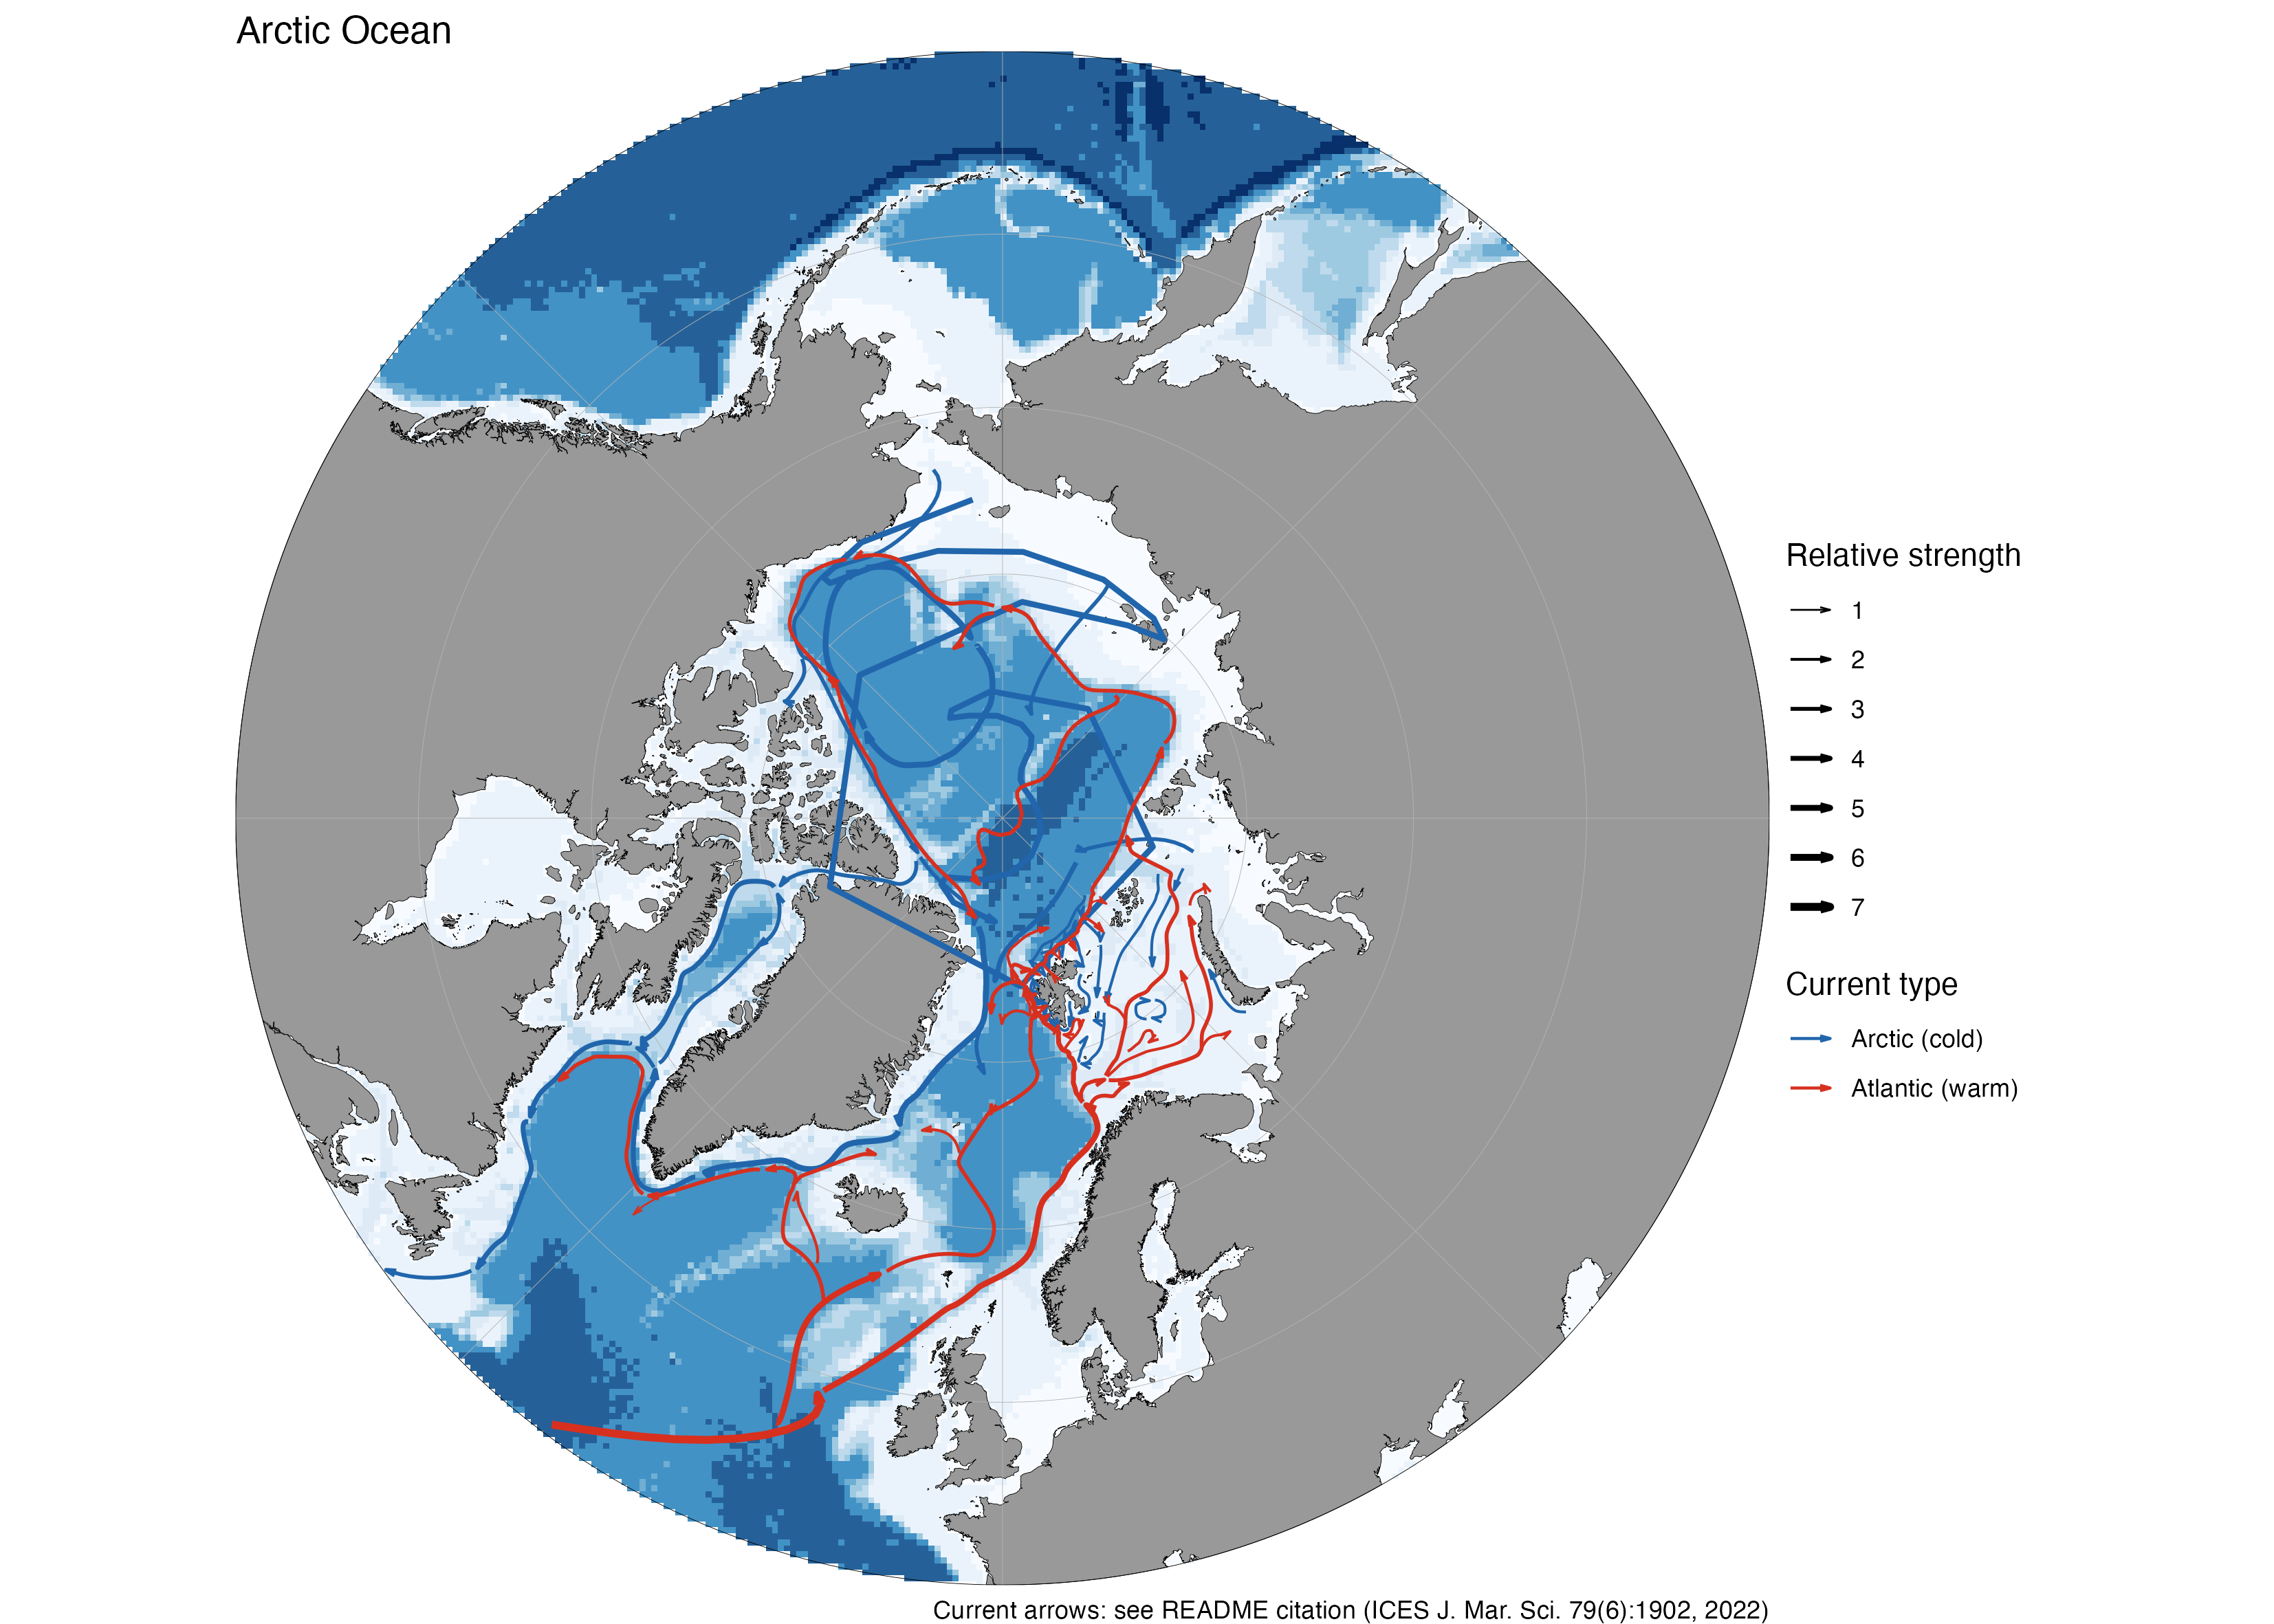
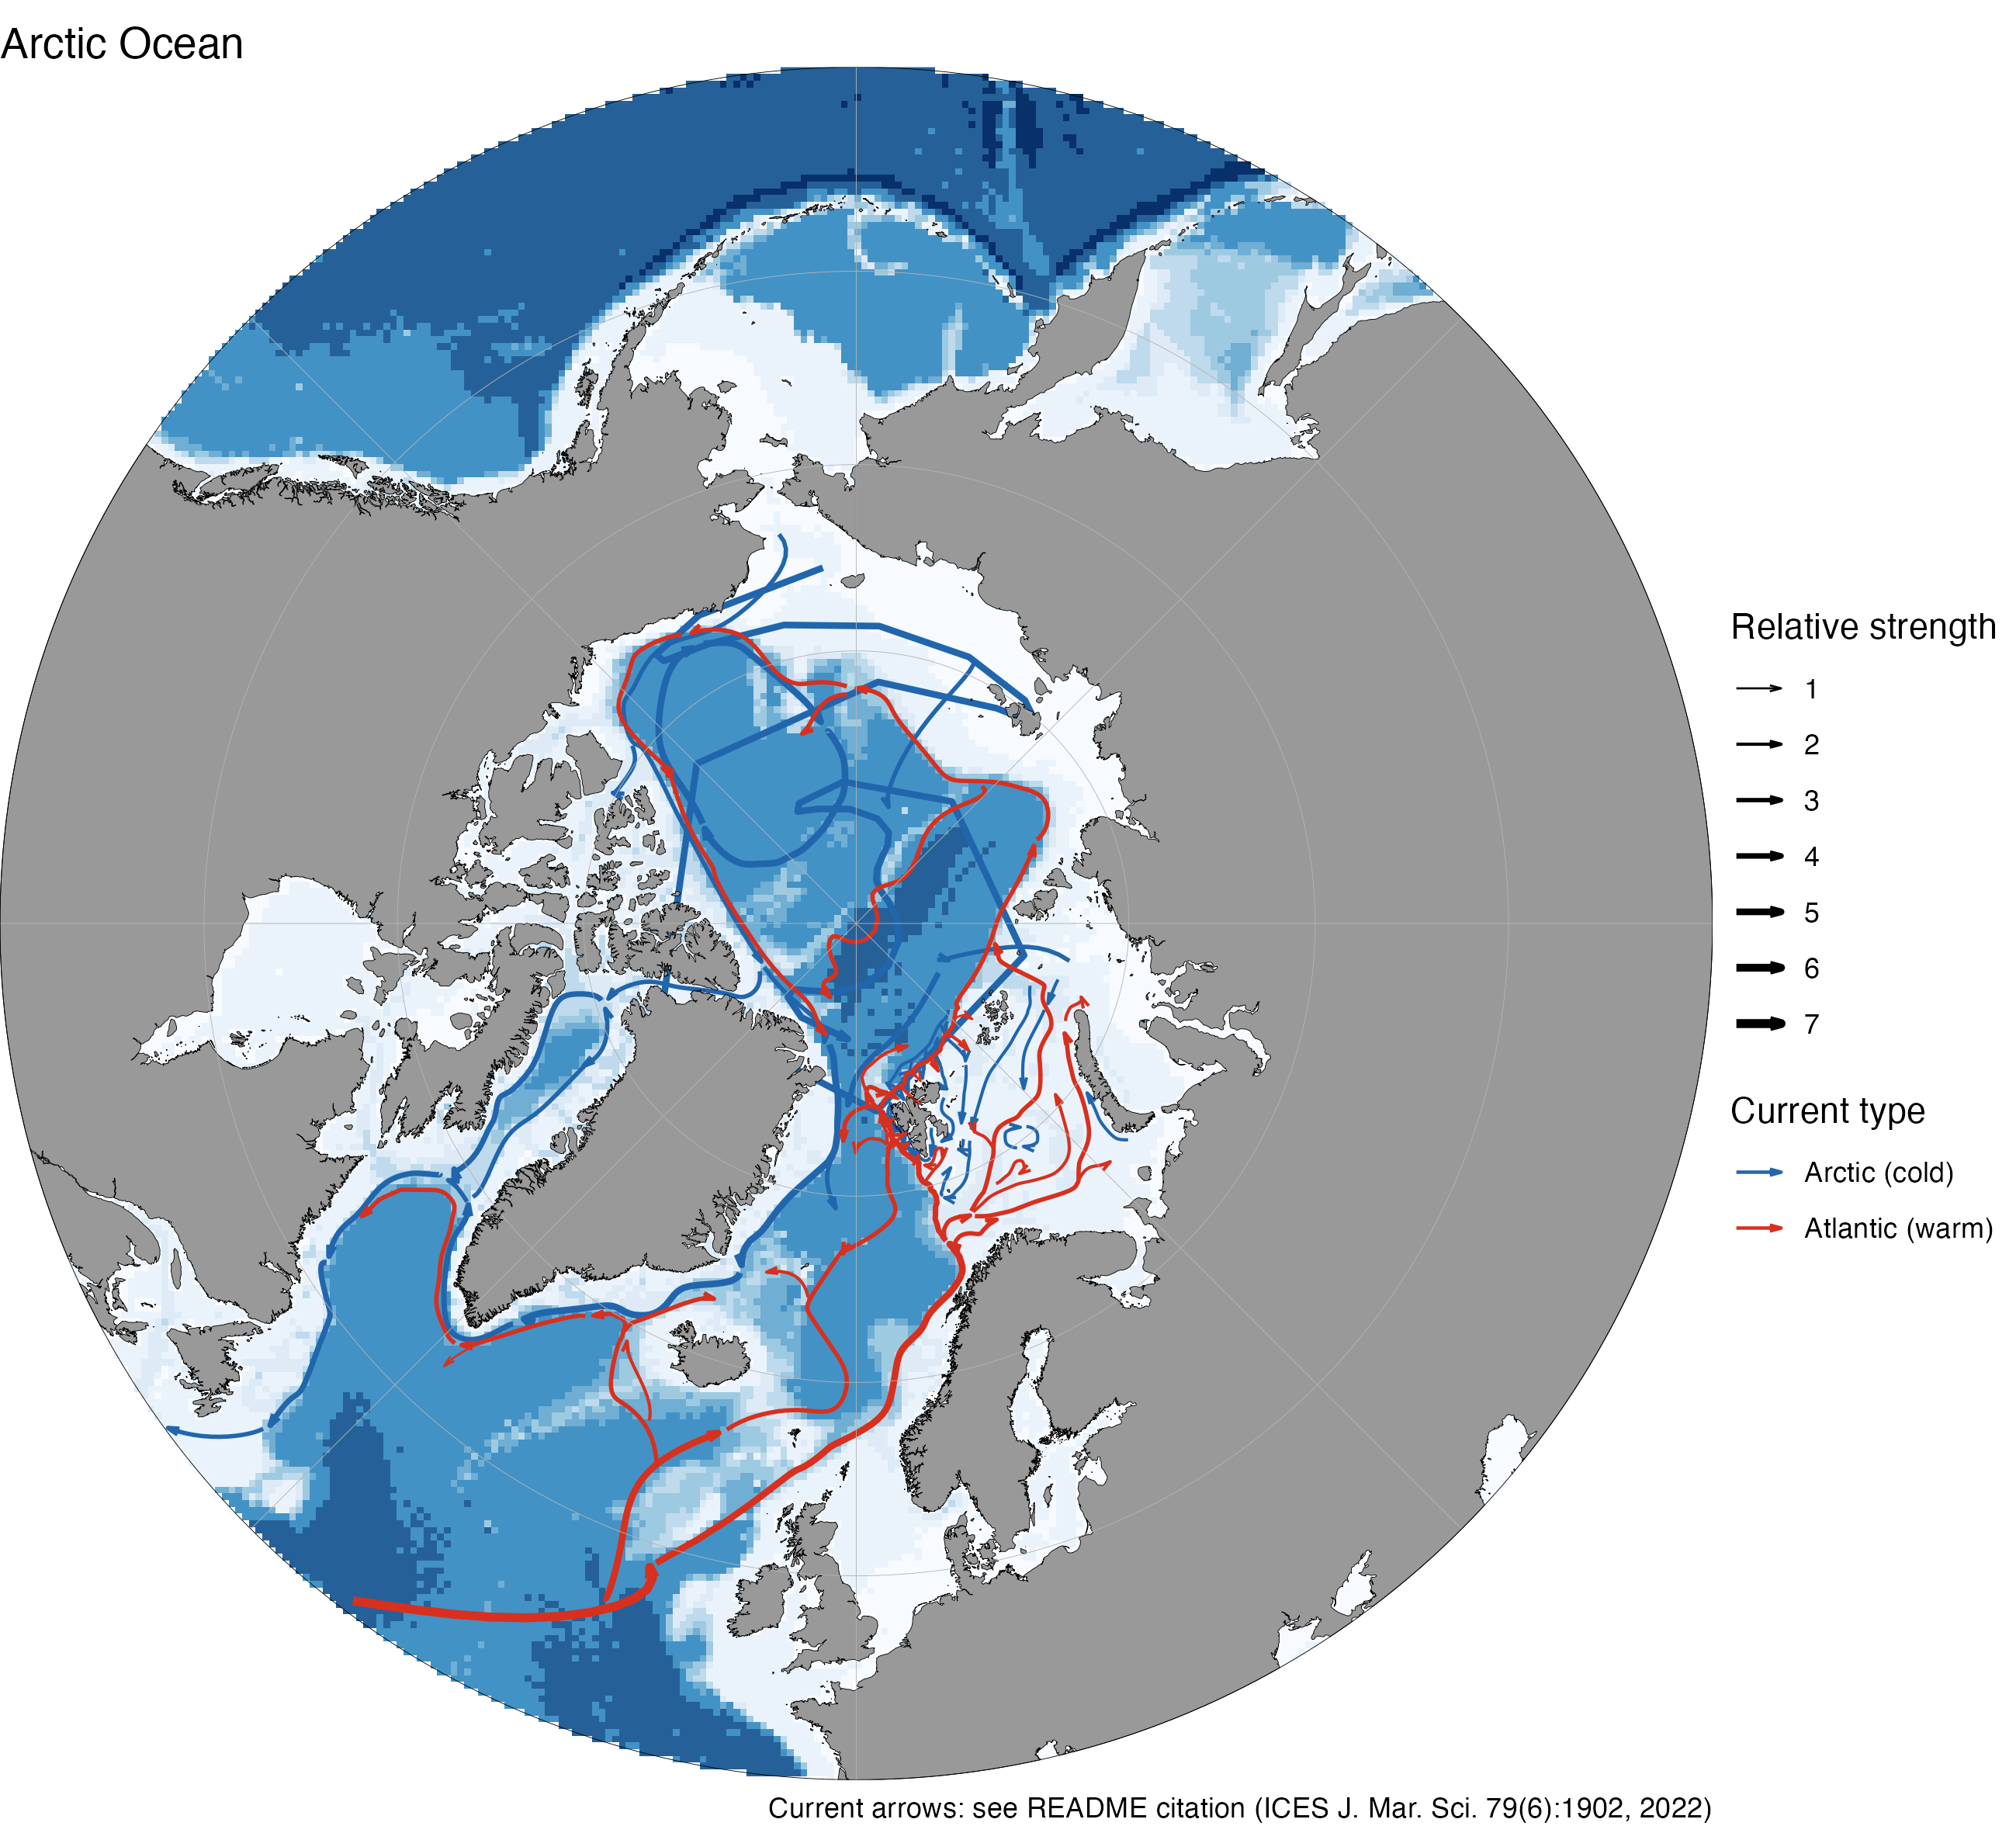
Tuck R current arrows under land; add side-by-side preview
Refine the ggOceanMaps R figures so they read like a published "Figure 1":

- Apply reorder_layers() so the current arrows sit under the coastline
  instead of being drawn over land.
- Fix the Arctic Ocean map: drop the redundant crs = 3995 (the circular
  limits = 45 basemap already fixes the CRS to EPSG:3995) and save the
  ready-made figures on a white background, so the Arctic legend is no
  longer lost against the transparent margin.
- Add figure_files/r_preview.png: the three panels side by side with a
  shared legend (cowplot), the R counterpart of python_preview.png, and
  use it as the single README lead figure.
- Remove the legacy PlotSvalbard renders (blue_bathy*, grey_bathy*).
- Bump to 0.2.1 (2026-05-30); update CHANGELOG, README, CITATION.cff.

diff --git a/README.md b/README.md
@@ -3,7 +3,7 @@
 
 **Data repository for updated Barents Sea and North Atlantic ocean-current
 arrows (Institute of Marine Research and Norwegian Polar Institute). Version
-0.2.0 (2026-05-29)**
+0.2.1 (2026-05-30)**
 
 This repository contains geospatial data for ocean-current arrows meant for
 scientific publications as *“Figure 1”*-type arrows indicating the *influence*
@@ -23,16 +23,17 @@ Research) and complemented by the knowledge of oceanographers/researchers at the
 Norwegian Polar Institute (Arild Sundfjord, Laura de Steur, Mikko Vihtakari).
 They are meant to stay updated; see *Contact information*.
 
-![Barents Sea ocean-current arrows](figure_files/barents_currents.png)
-
-![North Atlantic ocean-current arrows](figure_files/north_atlantic_currents.png)
-
-![Arctic Ocean ocean-current arrows](figure_files/arctic_ocean_currents.png)
+![The three map examples produced with ggOceanMaps](figure_files/r_preview.png)
 
 *The three map examples — Barents Sea, North Atlantic, and Arctic Ocean
 (warm/Atlantic in red, cold/Arctic in blue) — produced by
 [`R/make_figures.R`](R/make_figures.R) with
-[ggOceanMaps](https://mikkovihtakari.github.io/ggOceanMaps/).*
+[ggOceanMaps](https://mikkovihtakari.github.io/ggOceanMaps/). Each panel is also
+saved on its own as a publication-ready PDF/PNG in
+[`figure_files/`](figure_files/)
+([Barents Sea](figure_files/barents_currents.png),
+[North Atlantic](figure_files/north_atlantic_currents.png),
+[Arctic Ocean](figure_files/arctic_ocean_currents.png)).*
 
 The repository holds **two curated datasets** that drive **three map examples**:
 the detailed **Barents Sea** arrows, and the **North Atlantic** warm/cold
@@ -74,10 +75,14 @@ cur <- sf::st_read("shapefiles/Barents Sea/atlantic_water.shp", quiet = TRUE) |>
   smoothr::smooth(method = "spline") |>
   sf::st_transform(32633)
 
-basemap(limits = c(-5, 60, 68, 83), crs = 32633, bathymetry = TRUE) +
-  geom_sf(data = cur, aes(linewidth = size), color = "#d7301f",
-          arrow = arrow(type = "open", angle = 15, length = unit(0.25, "lines"))) +
-  scale_linewidth(range = c(0.3, 1.3))
+# reorder_layers() tucks the arrows under the coastline (otherwise the basemap
+# draws land first and the arrows sit on top of it).
+reorder_layers(
+  basemap(limits = c(-5, 60, 68, 83), crs = 32633, bathymetry = TRUE) +
+    geom_sf(data = cur, aes(linewidth = size), color = "#d7301f",
+            arrow = arrow(type = "open", angle = 15, length = unit(0.25, "lines"))) +
+    scale_linewidth(range = c(0.3, 1.3))
+)
 ```
 
 Complete, ready-to-run examples for both the Barents Sea and the North Atlantic

diff --git a/CHANGELOG.md b/CHANGELOG.md
@@ -1,5 +1,20 @@
 # Changelog
 
+## 0.2.1 (2026-05-30)
+
+- **Current arrows now sit under the coastline** in the R maps via
+  `ggOceanMaps::reorder_layers()`, matching a published "Figure 1" look.
+- **Fixed the Arctic Ocean R map**: dropped the redundant `crs = 3995` argument
+  (the circular `limits = 45` basemap already fixes the CRS to EPSG:3995) and
+  rendered the ready-made figures on a white background, so the Arctic legend is
+  no longer lost against the transparent margin.
+- **README lead figure** is now a single side-by-side `figure_files/r_preview.png`
+  (three panels + shared legend, the R counterpart of `python_preview.png`),
+  replacing the three vertically stacked maps. Each panel is still saved on its
+  own in `figure_files/`.
+- **Removed the legacy PlotSvalbard renders** (`blue_bathy*`, `grey_bathy*`),
+  superseded by the ggOceanMaps figures.
+
 ## 0.2.0 (2026-05-29)
 
 - **Added North Atlantic currents** alongside the Barents Sea arrows. The North